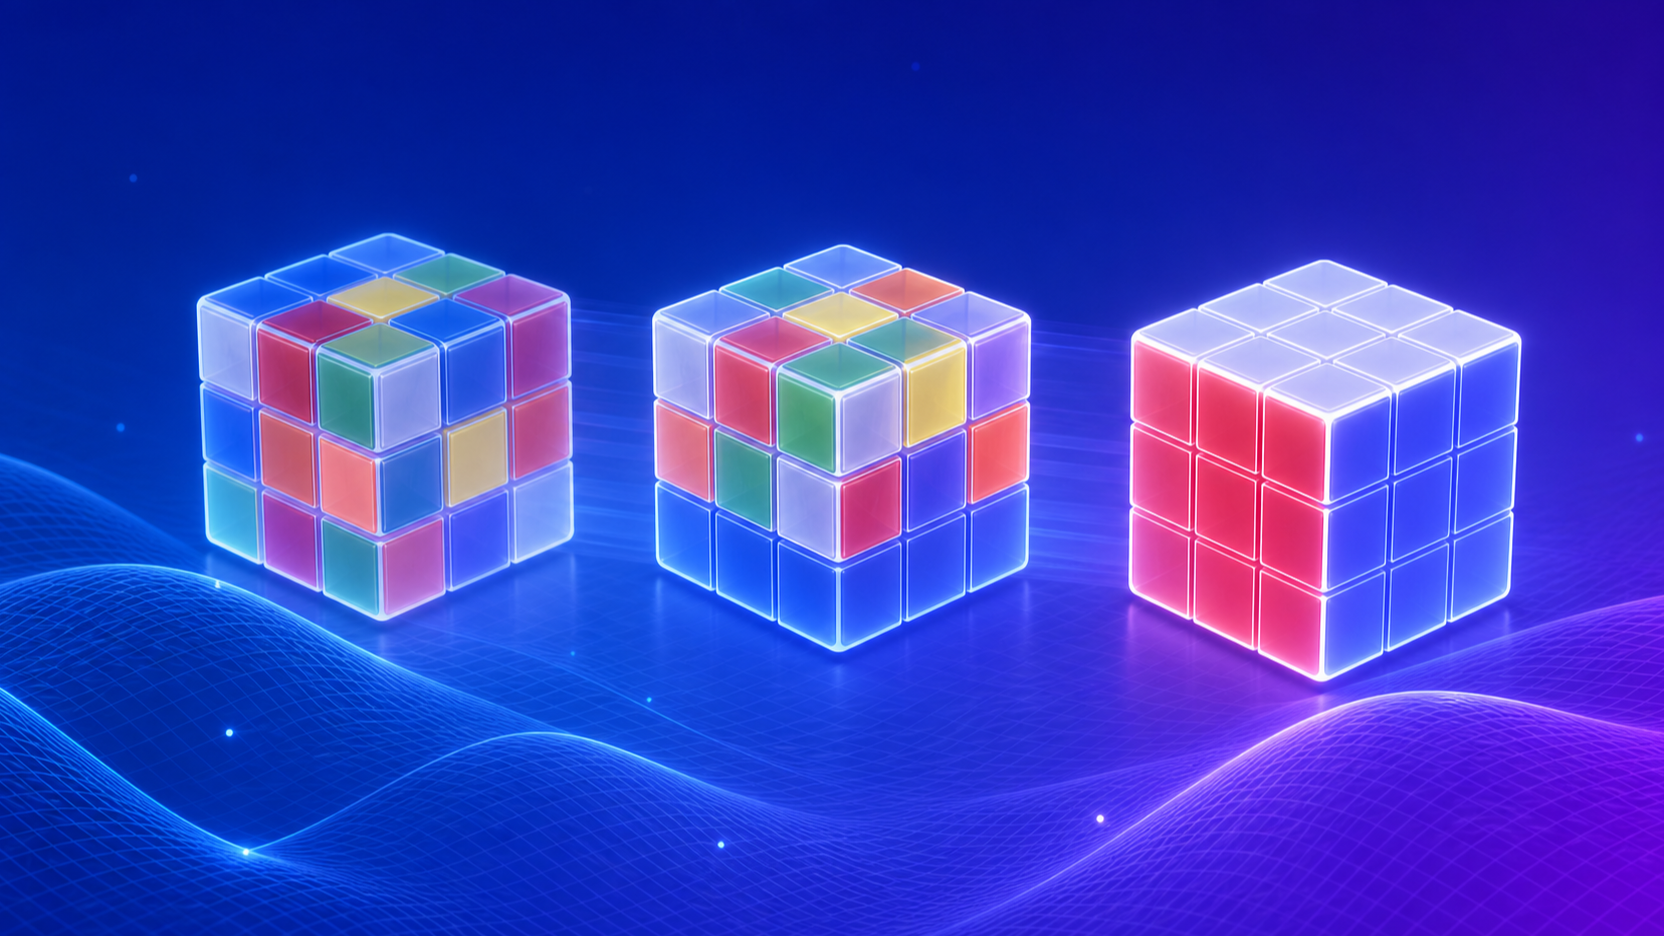
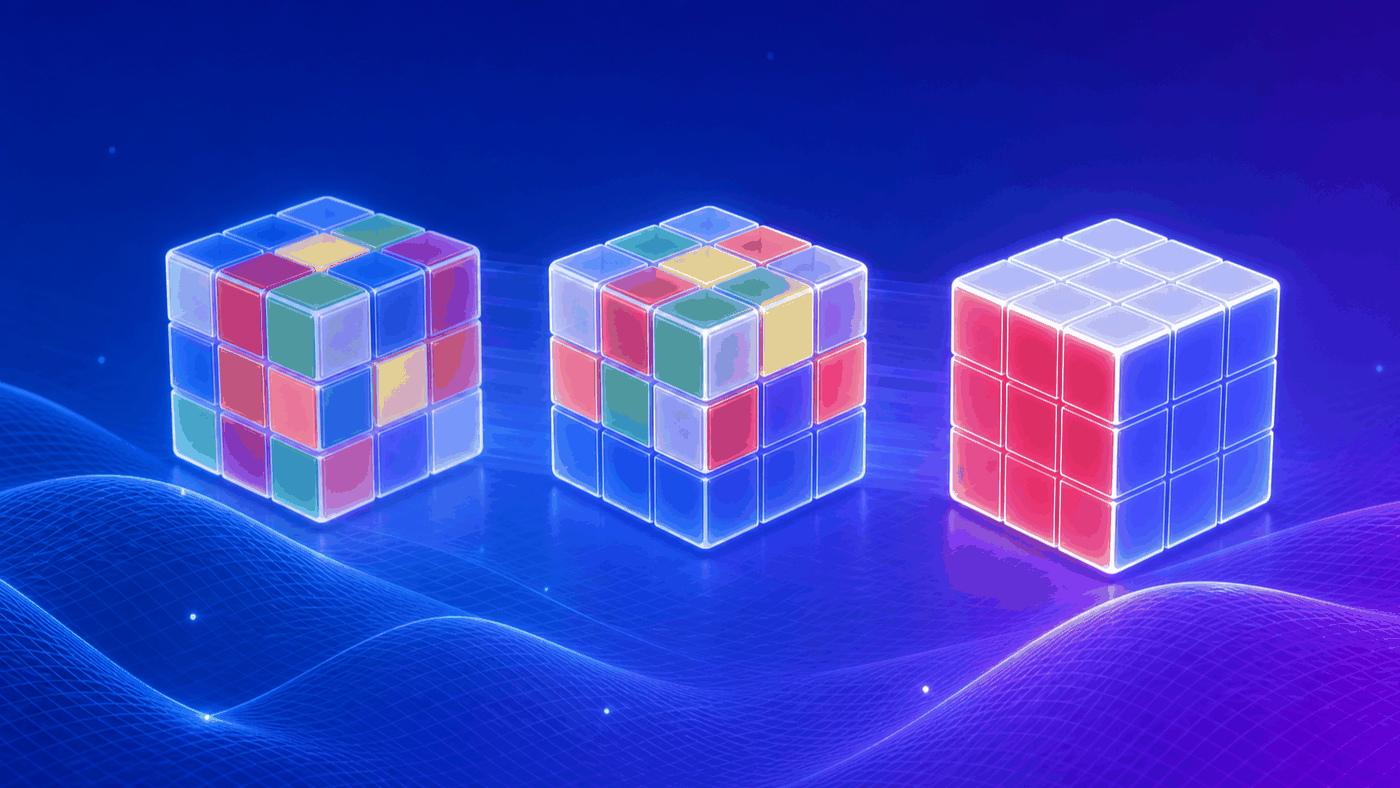
缩减图片体积

diff --git a/src/lib/i18n-messages.ts b/src/lib/i18n-messages.ts
@@ -93,7 +93,7 @@ export const messages = {
     "connection.failure.macHelp": "已选择魔方，但未能获取连接所需的 MAC 地址。浏览器设置或魔方仍连接其他网页、应用或设备，都可能导致此问题。请依次检查：",
     "connection.failure.chromeFlagsCheck": "检查 Chrome 设置：在地址栏打开以下地址",
     "connection.failure.otherConnectionCheck": "检查魔方是否已连接其他网页、应用或设备",
-    "connection.failure.otherConnectionHelp": "请在 Sales Timer、csTimer、Cube Station 等其他项目中主动断开魔方的蓝牙连接，也检查其他手机或电脑是否仍连接该魔方。仅关闭标签页可能不足以恢复连接；断开后再转动魔方，并在本站重新配对。",
+    "connection.failure.otherConnectionHelp": "请断开其他项目的魔方的蓝牙连接并重试",
     "connection.failure.chromeFlagsHelp": "将 Experimental Web Platform features 设为 Enabled（已启用），点击 Relaunch 重启浏览器，再转动魔方并重新配对。",
     "connection.failure.unsupported": "当前浏览器不支持蓝牙连接",
     "connection.failure.unsupportedHelp": "请使用电脑或安卓设备上支持 Web Bluetooth 的 Chrome / Edge。",
@@ -242,7 +242,7 @@ export const messages = {
     "connection.failure.macHelp": "A cube was selected, but its MAC address could not be retrieved. Browser settings or an existing connection to another site, app, or device may cause this. Check the following in order:",
     "connection.failure.chromeFlagsCheck": "Check Chrome settings: open this address in the address bar",
     "connection.failure.otherConnectionCheck": "Check for connections to other sites, apps, or devices",
-    "connection.failure.otherConnectionHelp": "Disconnect the cube in other projects such as Sales Timer, csTimer, or Cube Station, and check whether another phone or computer is still connected. Closing a tab alone may not restore connectivity. After disconnecting, turn the cube and try pairing on this site again.",
+    "connection.failure.otherConnectionHelp": "Disconnect your cube from other projects and try again.",
     "connection.failure.chromeFlagsHelp": "Set Experimental Web Platform features to Enabled, click Relaunch to restart Chrome, then turn your cube and try pairing again.",
     "connection.failure.unsupported": "Bluetooth connections are unsupported",
     "connection.failure.unsupportedHelp": "Use Chrome / Edge with Web Bluetooth support on a computer or Android device.",

diff --git a/src/components/formulas-app.tsx b/src/components/formulas-app.tsx
@@ -1,6 +1,7 @@
 "use client";
 
 import { useEffect, useEffectEvent, useMemo, useRef, useState } from "react";
+import Image from "next/image";
 import { AlgorithmStepToken } from "@/components/algorithm-step-token";
 import { AppFooter, AppTopbar } from "@/components/app-shell";
 import { useLanguage } from "@/components/language-provider";
@@ -1568,7 +1569,7 @@ function FormulaStage({
                   className="formula-top-view-svg formula-cube-svg-hero"
                 />
               ) : active.caseImage ? (
-                <img src={active.caseImage} alt="" />
+                <Image src={active.caseImage} alt="" width={96} height={96} />
               ) : displayFacelets ? (
                 <FormulaCubeImage
                   facelets={displayFacelets}
@@ -2100,7 +2101,7 @@ export function FormulasApp() {
                           className="fmr-img formula-top-view-svg"
                         />
                       ) : item.image ? (
-                        <img className="fmr-img" src={item.image} alt="" loading="lazy" />
+                        <Image className="fmr-img" src={item.image} alt="" width={48} height={48} />
                       ) : casePreviewFacelets ? (
                         <FormulaCubeImage
                           facelets={casePreviewFacelets}

diff --git a/src/components/app-shell.tsx b/src/components/app-shell.tsx
@@ -3,6 +3,7 @@
 import { type CSSProperties, type FocusEvent, type SetStateAction, useCallback, useEffect, useLayoutEffect, useRef, useState } from "react";
 import { createPortal } from "react-dom";
 import Link from "next/link";
+import Image from "next/image";
 import { usePathname } from "next/navigation";
 import { useCubeConnection } from "@/components/cube-connection-provider";
 import { useLanguage } from "@/components/language-provider";
@@ -258,7 +259,7 @@ export function AppFooter() {
 export function BrandMark() {
   return (
     <div className="brand-mark" aria-hidden="true">
-      <img src="/li-fang-logo.png" alt="" />
+      <Image src="/li-fang-logo.png" alt="" width={32} height={32} />
     </div>
   );
 }
@@ -439,7 +440,7 @@ export function CompactConnectButton({ tooltipAnchorSelector }: { tooltipAnchorS
             </button>
             <div className="top-connect-prompt-head">
               <div className="top-connect-prompt-visual" aria-hidden="true">
-                <img src="/li-fang-logo.png" alt="" />
+                <Image src="/li-fang-logo.png" alt="" width={42} height={42} />
               </div>
               <div>
                 <div className="top-connect-prompt-title" id="top-connect-prompt-title">

diff --git a/src/components/home-landing-app.tsx b/src/components/home-landing-app.tsx
@@ -2,6 +2,8 @@
 
 import { useCallback, useEffect, useRef } from "react";
 import Link from "next/link";
+import Image from "next/image";
+import banner from "../../public/banner.png";
 import { AppFooter, CompactConnectButton, NavIcon } from "@/components/app-shell";
 import { useCubeAppearance } from "@/components/cube-appearance-provider";
 import { useCubeConnection, type CubeVisualState } from "@/components/cube-connection-provider";
@@ -110,7 +112,7 @@ export function HomeLandingApp() {
         <section className="home-hero" aria-labelledby="home-title">
           <div className="home-copy">
             <h1 id="home-title">
-              <img className="home-banner" src="/banner.png" alt={t("brand.name")} />
+              <Image className="home-banner" src={banner} alt={t("brand.name")} sizes="(max-width: 760px) 100vw, 510px" preload />
             </h1>
             <nav className="home-nav topnav" aria-label={t("home.navigation")}>
               {HOME_NAV.map((item) => (

diff --git a/src/components/formula-cube-image.tsx b/src/components/formula-cube-image.tsx
@@ -394,6 +394,8 @@ export function FormulaTopViewImage({ facelets: rawFacelets, faceColors, classNa
   );
 
   return (
+    // Canvas 生成的 data URL 已在本地缓存，无需经过 Next.js 图片优化服务。
+    // eslint-disable-next-line @next/next/no-img-element
     <img
       className={className}
       src={src || TOP_VIEW_PLACEHOLDER_SRC}
